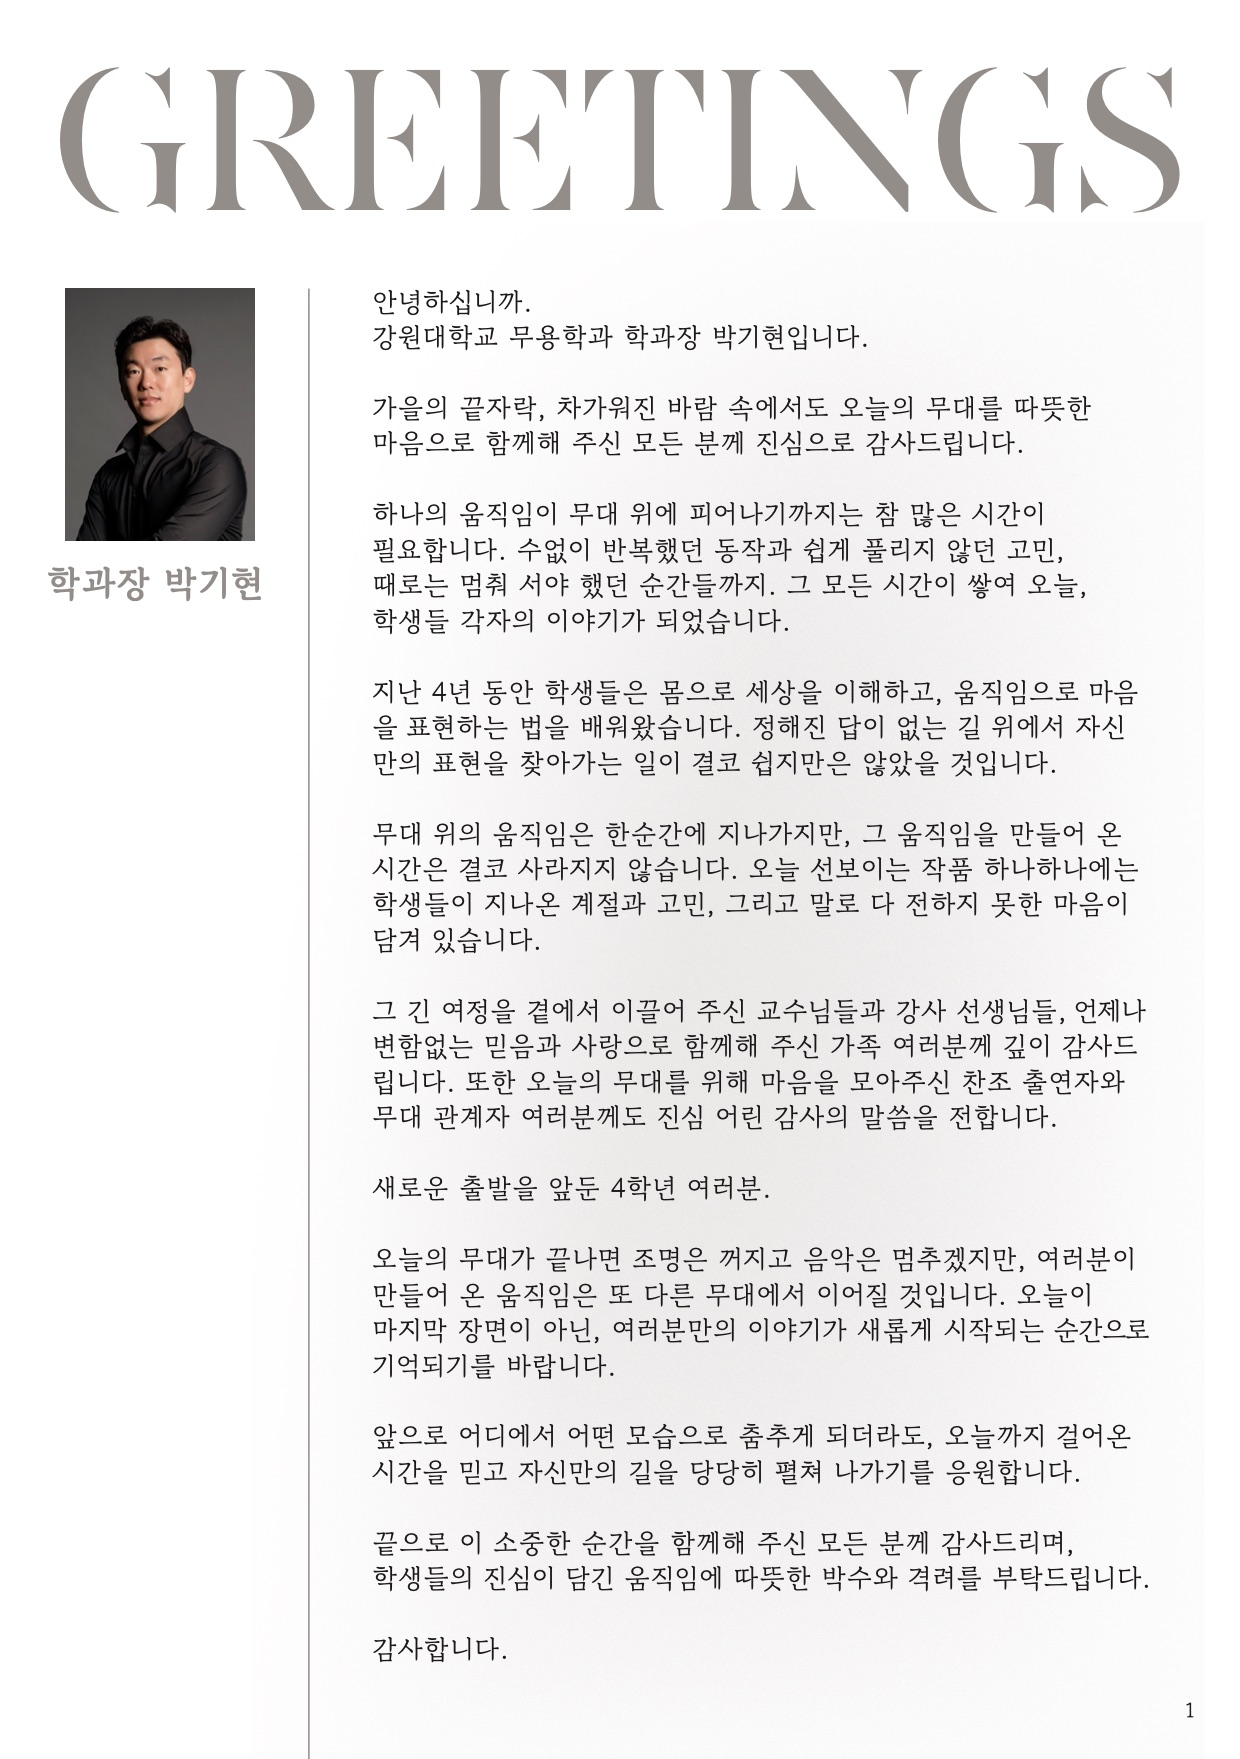
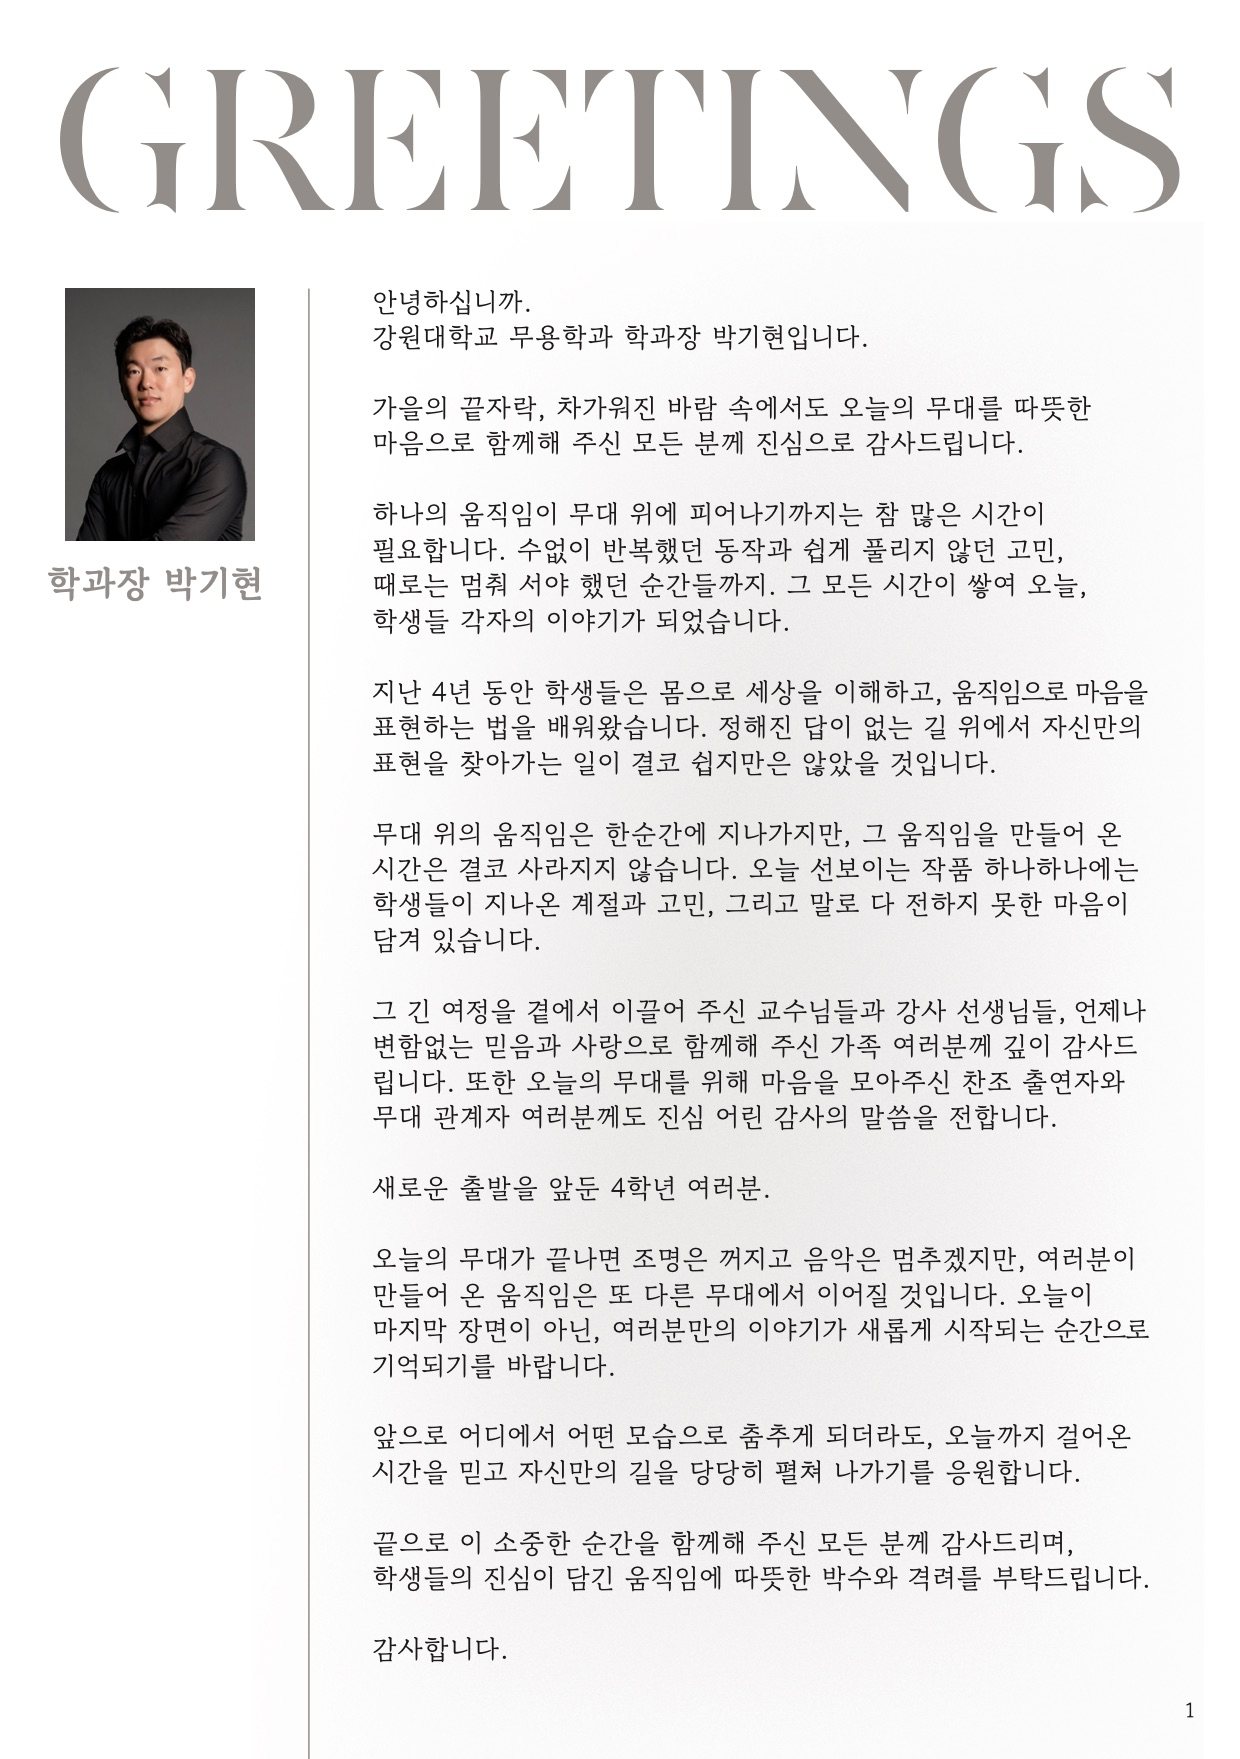
Add files via upload

Changed region(s): [[0.3065, 0.3684, 0.9194, 0.4605]]

diff --git a/index.html b/index.html
@@ -39,7 +39,7 @@ main { max-width: 640px; margin: 0 auto; display: flex; flex-direction: column; 
   <img class="page" src="pages/19.jpg" alt="팸플릿 19페이지" width="1240" height="1759" loading="lazy" decoding="async">
   <img class="page" src="pages/20.jpg" alt="팸플릿 20페이지" width="1240" height="1759" loading="lazy" decoding="async">
   <img class="page" src="pages/21.jpg" alt="팸플릿 21페이지" width="1240" height="1759" loading="lazy" decoding="async">
-  <img class="page" src="pages/22.jpg" alt="팸플릿 22페이지" width="1240" height="1759" loading="lazy" decoding="async">
+  <img class="page" src="pages/24.jpg" alt="팸플릿 24페이지" width="1240" height="1759" loading="lazy" decoding="async">
 </main>
 </body>
 </html>
